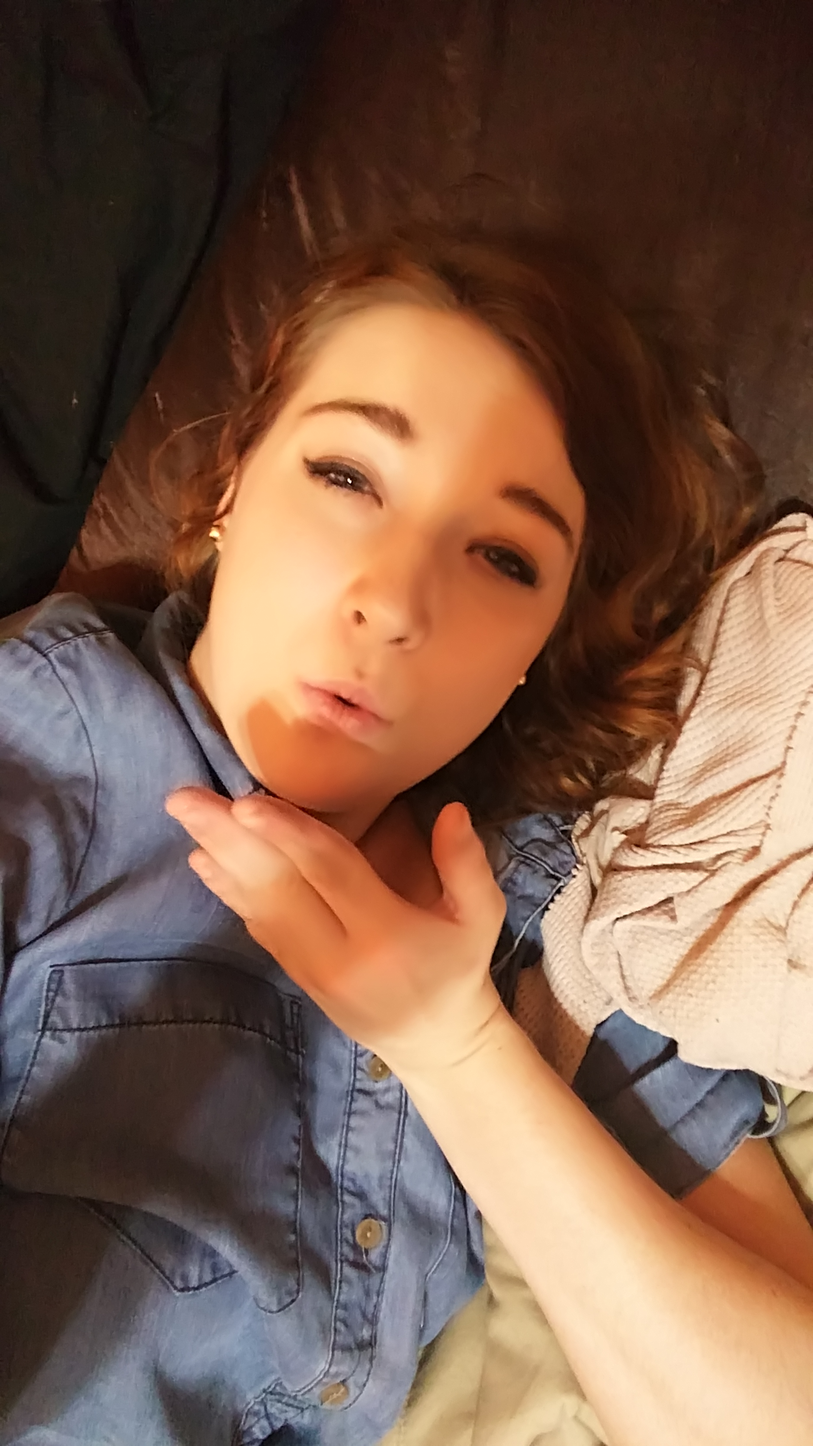
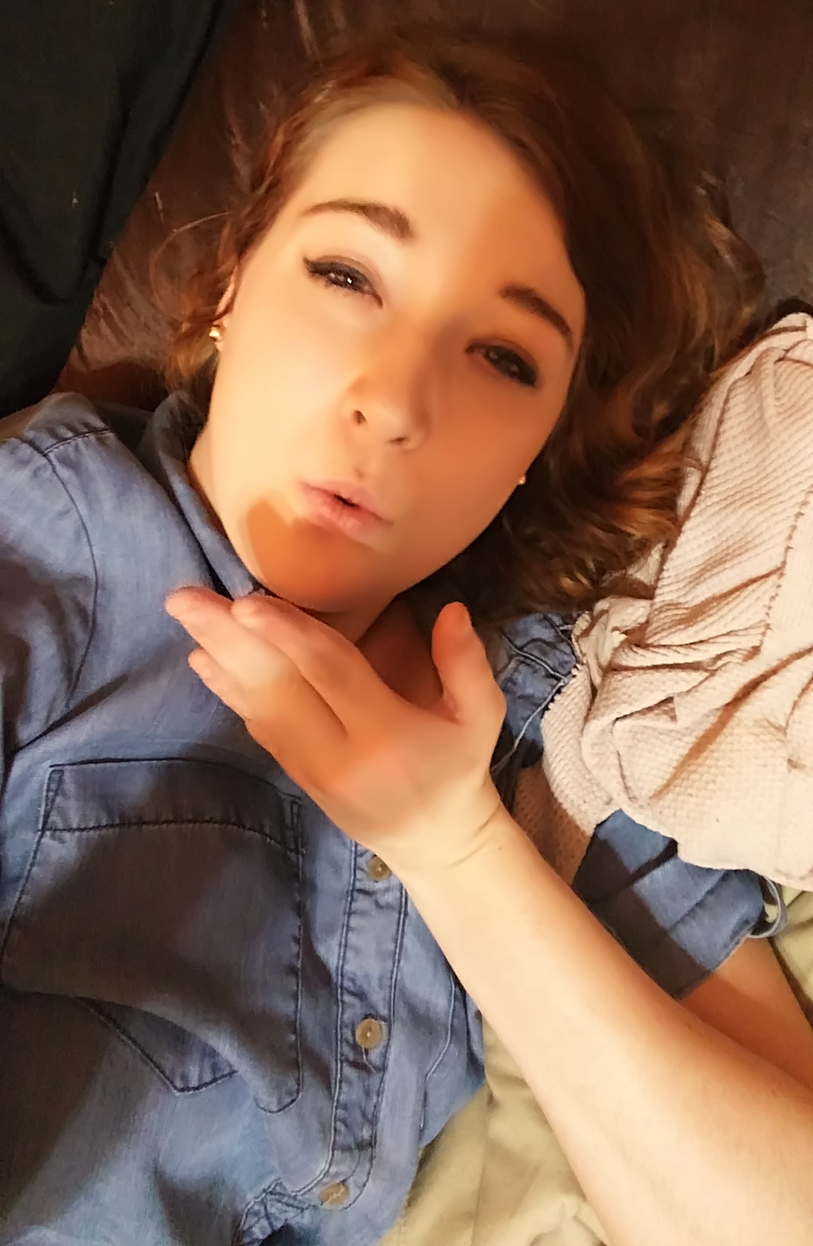
Add custom media break resizing for taylor sweet image. Update image.

diff --git a/proposal-app/src/app/landing-page/landing-page.component.ts b/proposal-app/src/app/landing-page/landing-page.component.ts
@@ -1,4 +1,4 @@
-import { Component, OnInit } from '@angular/core';
+import { Component, OnInit, HostListener } from '@angular/core';
 import { HeaderOptions } from '../custom-material-module/main-header/main-header.component';
 import { landingHeaderOptions } from './header-links';
 
@@ -9,9 +9,32 @@ import { landingHeaderOptions } from './header-links';
 })
 export class LandingPageComponent implements OnInit {
   landingHeaderOptions: HeaderOptions = landingHeaderOptions;
+  windowWidth: number;
   constructor() { }
 
   ngOnInit() {
+    this.windowWidth = window.innerWidth || document.body.clientWidth;
   }
+
+  @HostListener('window:resize', ['$event'])
+  onResize(event) {
+    this.windowWidth = window.innerWidth || document.body.clientWidth;
+  }
+
+  get sweetImageWidth(): string {
+    if (this.windowWidth < 600) {
+      return '100%';
+    }
+    if (this.windowWidth < 750) {
+      return '75%';
+    }
+    if (this.windowWidth < 1200) {
+      return '50%';
+    }
+    else {
+      return '35%';
+    }
+  }
+
 
 }

diff --git a/proposal-app/src/app/landing-page/landing-page.component.html b/proposal-app/src/app/landing-page/landing-page.component.html
@@ -44,6 +44,7 @@
   imageUrl="assets/images/taylor-sweet.jpg"
   imageAlt="The sweetest girl in the world!"
   picturePosition="center"
+  [imgCardStyles]="{'width': sweetImageWidth}"
 >
 </app-picture-panel>
 

diff --git a/proposal-app/src/app/custom-material-module/picture-panel/picture-panel.component.css b/proposal-app/src/app/custom-material-module/picture-panel/picture-panel.component.css
@@ -2,6 +2,8 @@
 .panel-picture {
   height: 100%;
   width: 100%;
+  display: flex;
+  justify-content: center;
 }
 
 @media only screen and (max-width: 800px) {
